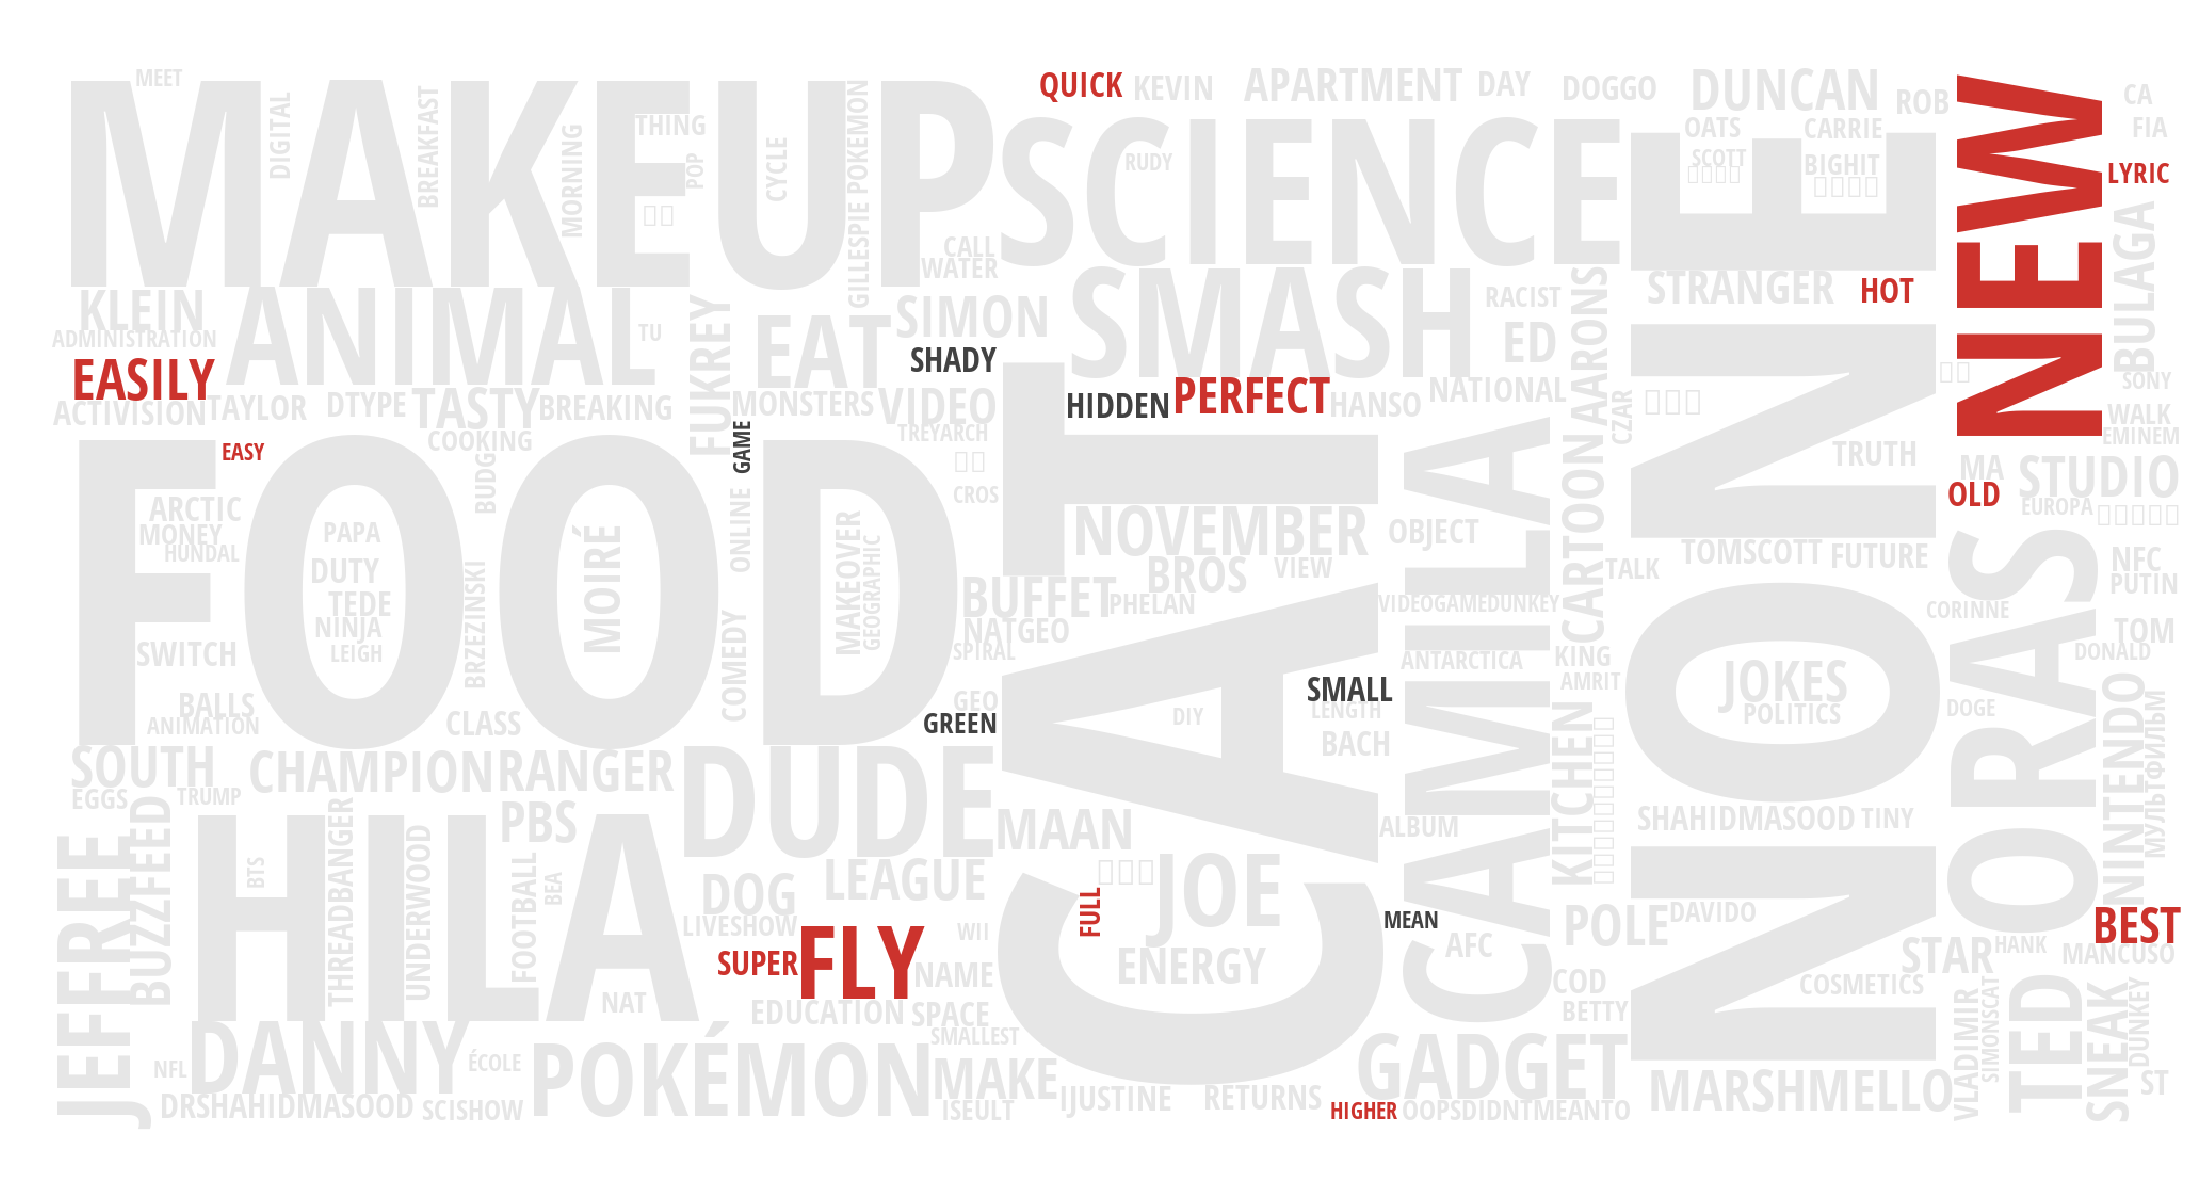
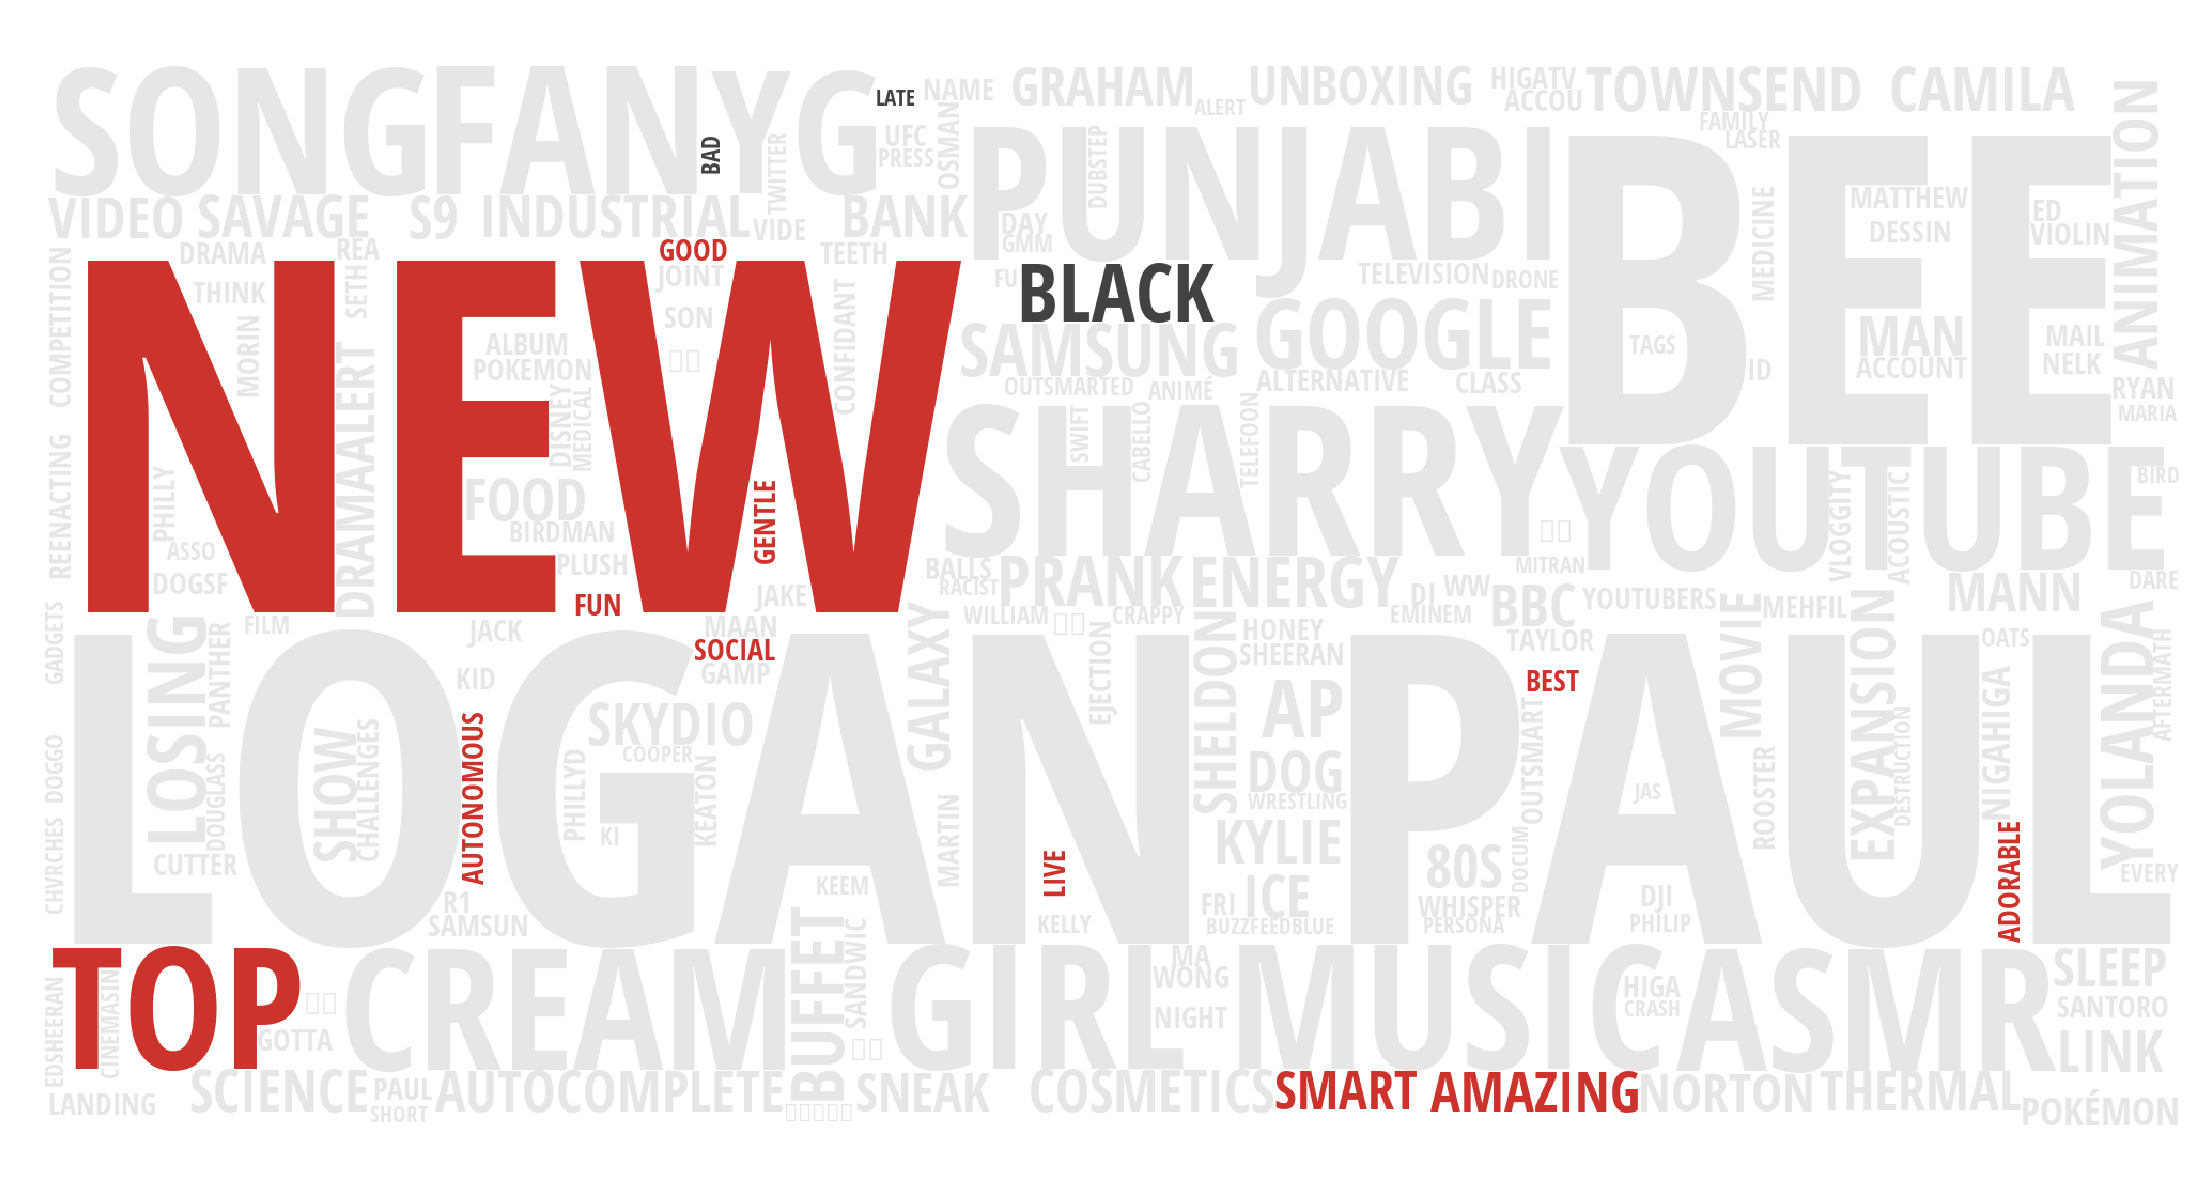
hi

diff --git a/youtube-datastory/index3.html b/youtube-datastory/index3.html
@@ -585,13 +585,9 @@
 
                 <hr class='divideme'>
 
-                <!-- <p>
+                <p>
                     Now, while our sentiment analysis tool may be flawed (as described above in reference to Figure 6),
-                    I was interested in seeing whether or not there was a noticable trend in the overall sentiment of titles
-                    (rather than just the specific words).
-                    Since the number of neutral titles once again overpowered both the positive and negative titles,
-                    I chose to omit them from Figure 7 below.
-
+                    I was interested in seeing whether or not
                 </p>
 
                 <figure class="full-width">
@@ -599,124 +595,11 @@
                    <figcaption class="figure-caption">Figure 7</figcaption>
                 </figure>
 
-                <hr class='divideme'> -->
-
-                <p>
-                    While titles are meant to draw users in once they see your video,  tags are used
-                    to make sure that users see your video in the first place.
-                    The tags of a video are more hidden than the title, but they still contain
-                    useful information about the contents of the video itself.
-                    Since titles are more visible and meant to be a draw for viewers, they are not
-                    necessarily representative of the actual contents: for example, consider the
-                    clickbait titles above.
-                    Hence, I wanted to see if the top words used in titles were in any way related
-                    to the tags.
-                </p>
-
-                <p>
-                    I started by getting a general understanding of what words were most frequent
-                    in tags, similar to the way I did for titles in Figure 6.
-                    I did this by gathering the top <span class='number'>200</span> tags and mapping
-                    them to a word cloud, where the size of each word represents the number of
-                    times it appeared. The color mapping is the same as in Figure 6, where
-                    red is <span class='emph'>positive</span>, dark gray is <span class='emph2'>negative</span>,
-                    and light gray is neutral. The results can be seen in Figure 7.
-
-                </p>
 
                 <figure class="full-width">
                    <img src="./images/TagsWordCloud.png" class="img-fluid"/>
-                   <figcaption class="figure-caption">Figure 7</figcaption>
+                   <figcaption class="figure-caption">Figure 8</figcaption>
                 </figure>
-
-                <p>
-                    Since I was not able to translate this column due to my translation limitations,
-                    I used the unsampled dataset for this analysis.
-                    Interestingly, despite the fact that this dataset contains <span class='number'>78</span>
-                    unique languages, a majority of the top-used tags were in English.
-                    This reflects the findings of Question 2 above, where English was the majority
-                    language for <span class='number'>3</span> out of the <span class='number'>5</span>
-                    trending pages and the second-most popular in the other <span class='number'>2</span>.
-                </p>
-
-                <p>
-                    Once again, we can see some odd choices by the sentiment analysis tool.
-                    However, ignoring this, we can see that the breakdown of sentiment is very similar to
-                    that of the word usage in the titles.
-                    The top <span class='number'>200</span> words in titles were approximately
-                    <span class='number'>7.5%</span> positive, whereas in tags the top <span class='number'>200</span>
-                    were approximately <span class='number'>5.5%</span> positive.
-                    For words classified as negative, titles included approximately <span class='number'>3%</span>
-                    and tags about <span class='number'>1.5%</span>.
-                    Neutral words, in both subsets, were the majority.
-                </p>
-
-                <p>
-                    Now, out of the top <span class='number'>200</span> words in titles and the
-                    top <span class='number'>200</span> words in tags, <span class='number'>105</span>
-                    of them are the same (in the sampled dataset).
-                    So, in regards to my initial question, it seems that titles and tags are indeed
-                    very related. In fact, of the top <span class='number'>5</span> most-frequent words
-                    in both titles and tags, <span class='number'>3</span> of them were the same.
-                    The breakdown of these words is shown in Table 2.
-                </p>
-
-                <figure>
-                    <table class="table">
-                      <thead class='thead-light'>
-                        <tr>
-                          <th scope="col">#</th>
-                          <th scope="col">Word</th>
-                          <th scope="col">Frequency in Titles</th>
-                          <th scope="col">Frequency in Tags</th>
-                        </tr>
-                      </thead>
-                      <tbody>
-                        <tr>
-                          <th scope="row">1</th>
-                          <td>2018</td>
-                          <td><span class='number'>2,145</span></td>
-                          <td><span class='number'>4,235</span></td>
-                        </tr>
-                        <tr>
-                          <th scope="row">2</th>
-                          <td>Video</td>
-                          <td><span class='number'>1,260</span></td>
-                          <td><span class='number'>4,365</span></td>
-                        </tr>
-                        <tr>
-                          <th scope="row">3</th>
-                          <td>New</td>
-                          <td><span class='number'>1,226</span></td>
-                          <td><span class='number'>4,294</span></td>
-                        </tr>
-                      </tbody>
-                    </table>
-                    <figcaption class="figure-caption">Table 2</figcaption>
-                </figure>
-                <p>
-                    Interestingly, the top-used word in tags was 'funny', which did not appear
-                    at all in the top <span class='number'>200</span> words used for titles.
-                    However, of the top <span class='number'>5</span> words in titles, every
-                    single one of them appeared in the top <span class='number'>200</span> tags.
-                    Despite this, there was no obvious trend in which words appeared in titles
-                    but not tags and vice versa.
-                    Words that were included in titles but <i>not</i> in tags include
-                    'death', 'commercial', and 'trailers'.
-                    On the other hand, some words included in tags but not in titles were
-                    'cats', 'education', and 'television'.
-                    From a manual overview of the non-overlapping words,
-                    titles included a larger variety of punctuation and numbers;
-                    however, other than that, there was not any drastic differences
-                    between the word choices for each.
-                </p>
-            <!-- <p>
-                Interestingly, many of the trending videos did not include a single tag: this is shown by the large
-                'None' on the right-hand-side of Figure 8.
-                So, this suggests that tags may not be a factor in determining whether or not a video makes
-                the trending page.
-            </p> -->
-
           </div>
         </div>
       </div>
@@ -729,84 +612,14 @@
 		  <div class="col-lg-8 mx-auto">
 			<h2>Question #4</h2>
 			<h3>When should you publish your video?</h3>
-			<p>
-                If your goal is to trend, is there a specific time and/or
-                day of the week that will help to achieve this?
-                That is the goal of this section of the data analysis.
-
-            </p>
-
-            <hr class='divideme'>
-
-            <p>
-                First, let's determine whether the day a video is published impacts
-                the likelihood of it trending.
-                For example, is there a certain weekday that is best to publish your video in order
-                for it to trend?
-                If we break down the number of videos by the weekday they made the trending page
-                as well as the weekday they were published, we may get an idea of whether or not
-                there is a relation between weekday and the chances of trending.
-                Not only that, but we may be able to draw a conclusion
-                on which day is best to publish your video if you wish to trend.
-                I began tackling some of these questions using Figure 8, which (for reference) uses the
-                <i>unsampled</i> dataset.
-            </p>
-
-            <figure class="full-width">
-                <img src="./images/DayOfTheWeekCount.png" class="img-fluid"/>
-                <figcaption class="figure-caption">Figure 8</figcaption>
-            </figure>
-
-            <p>
-                In Figure 8, we can see that the total number of <span class='emph'>trending</span> videos
-                on each weekday is fairly uniform. The only exceptions to this are Friday and
-                Sunday, which both have slightly fewer trending videos than the other <span class='number'>5</span>
-                weekdays. On the other hand, the number of videos <span class='emph2'>published</span> on each day
-                is slightly more erratic. Between Monday and Wednesday, the number of trending videos published on
-                these days goes down. Wednesday and Thursday have the fewest number of videos published on these
-                days total, with Wednesday being the worst of the two.
-                Then, the number trends upward to Friday and stays fairly consistent over the weekend.
-            </p>
-
-            <p>
-                From this, we can see that very few trending videos are <span class='emph2'>published</span> on Wednesday's and Thursday's
-                despite the fact that the number of <span class='emph'>trending</span> videos stays pretty stable regardless of the weekday.
-                That being said, this could be due to the fact that fewer videos in general are published
-                in the middle of the week. Unfortunately, since our data is limited to trending videos only,
-                we have no way of knowing how many videos <i>total</i> are published on each day of the week.
-                Hence, we do not have enough information to verify this or make any solid conclusions.
-                Still, it may be best to avoid these two days when deciding when to make your video live.
-            </p>
-
-            <hr class='divideme'>
-
-            <p>
-                Since it is difficult to determine the <i>likelihood</i> of trending depending on the
-                day a video was published, let's instead see if there is any correlation between the day a video
-                was published and how <i>long</i> it takes to make the trending page.
-                In order to calculate this value, which we will hereby call the <span class='emph2'>wait time</span>,
-                we took the day a video made the trending page and subtracted the day it was published.
-                We converted this value to the approximate number of days between the two dates in order
-                to simplify the output of this calculation.
-                Once we had this value for every single video in our unsampled dataset, we could proceed
-                with the rest of our analysis.
-            </p>
+			<p class="lead">Lorem ipsum dolor sit amet, consectetur adipisicing elit. Vero odio fugiat voluptatem dolor, provident officiis, id iusto! Obcaecati incidunt, qui nihil beatae magnam et repudiandae ipsa exercitationem, in, quo totam.</p>
 
             <figure class="full-width">
                 <img src="./images/WaitTimeTrends.png" class="img-fluid"/>
-                <figcaption class="figure-caption">Figure 9</figcaption>
             </figure>
-
-            <p>
-                Figure 9 shows the breakdown of both the <span class='emph2'>average</span> and
-                <span class='emph'>mean</span> wait time for the videos
-                that trended on each day in our dataset. From this, we can see very clearly that
-                the
-            </p>
 
             <figure class="full-width">
                 <img src="./images/WaitTimeTrends-Median.png" class="img-fluid"/>
-                <figcaption class="figure-caption">Figure 10</figcaption>
             </figure>
           </div>
 		</div>
@@ -825,15 +638,14 @@
 	  </div>
 	</section>
 
-    <!-- <div class="wide" id='shane'></div> -->
+    <div class="wide" id='shane'></div>
 
 	<section id="q6">
 	  <div class="container">
 		<div class="row">
 		  <div class="col-lg-8 mx-auto">
 			<h2>Question #6</h2>
-            THIS IS DIFFERENT
-			<h3>What influences views?</h3>
+			<h3>Does a controversy affect your likelihood of trending?</h3>
 			<p class="lead">Lorem ipsum dolor sit amet, consectetur adipisicing elit. Vero odio fugiat voluptatem dolor, provident officiis, id iusto! Obcaecati incidunt, qui nihil beatae magnam et repudiandae ipsa exercitationem, in, quo totam.</p>
 		  </div>
 		</div>
